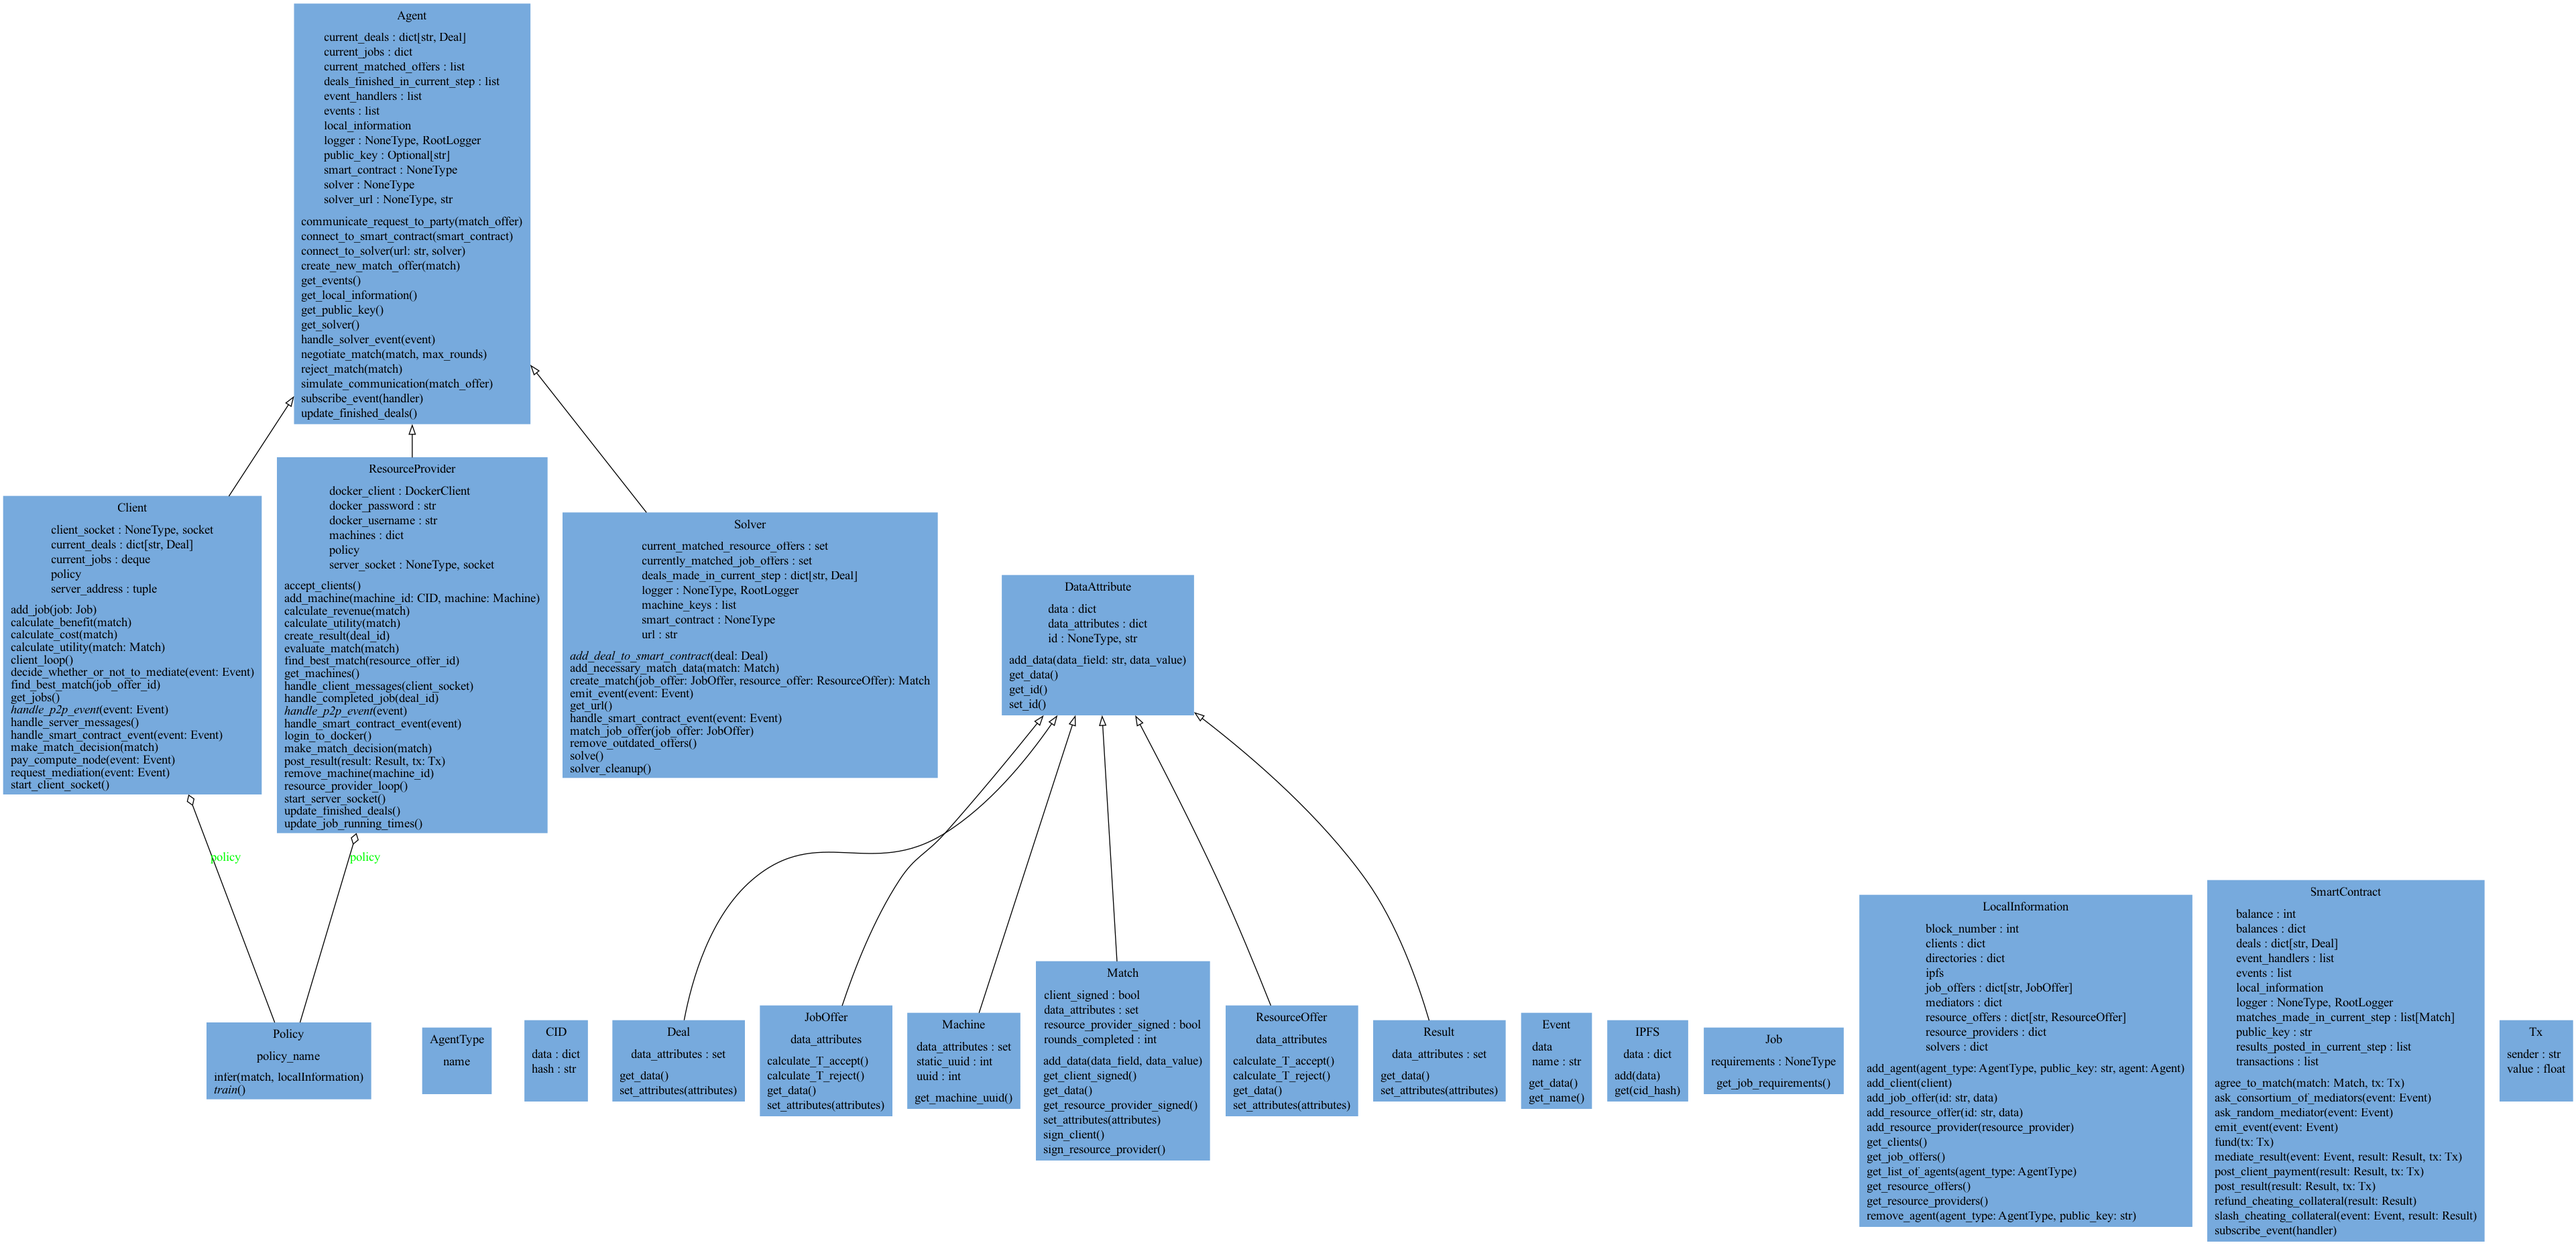
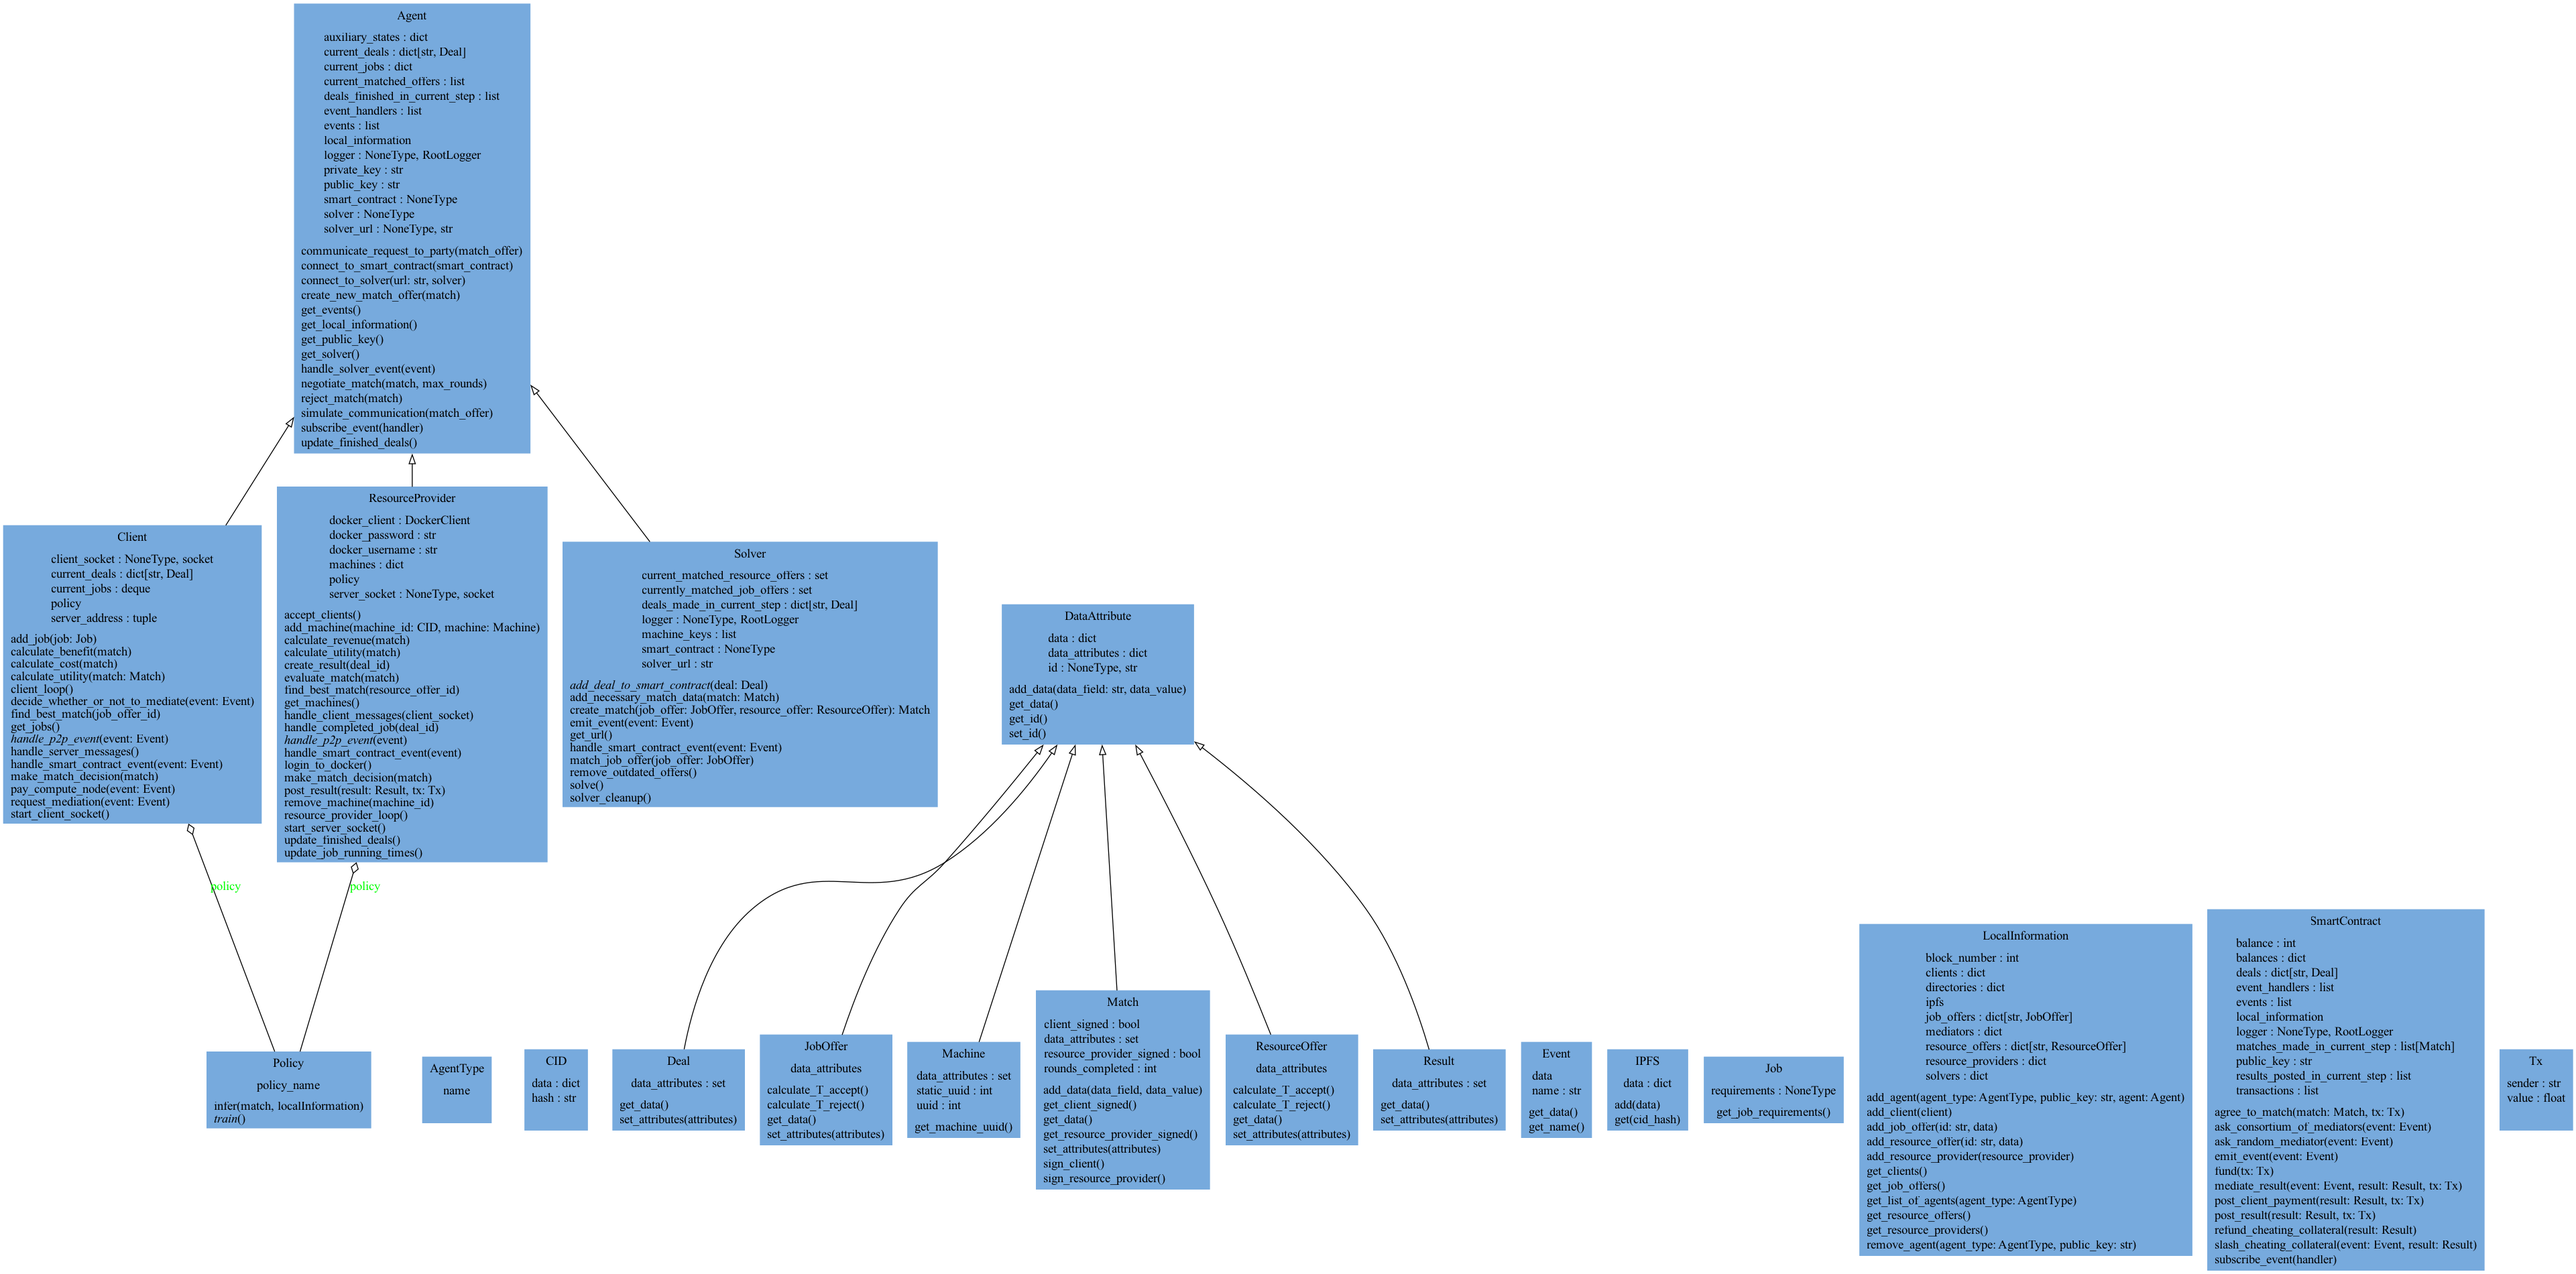
fix: client and solver api as agent

diff --git a/tests/test_client.py b/tests/test_client.py
@@ -13,6 +13,11 @@ from coophive.smart_contract import SmartContract
 from coophive.solver import Solver
 from coophive.utils import Tx
 
[1 lines of base64/hex data omitted]
+mock_public_key = "0x627306090abaB3A6e1400e9345bC60c78a8BEf57"
+policy_a = Policy("naive_accepter")
+solver_url = "http://solver.com"
+
 
 @pytest.fixture
 def setup_client():
@@ -21,8 +26,9 @@ def setup_client():
     with patch("socket.socket") as mock_socket:
         mock_socket_instance = MagicMock()
         mock_socket.return_value = mock_socket_instance
-        policy_a = Policy("naive_accepter")
-        client = Client("client_key", policy_a)
+        client = Client(
+            private_key=mock_private_key, public_key=mock_public_key, policy=policy_a
+        )
         smart_contract = SmartContract(public_key="smart_contract_key")
         client.get_smart_contract = lambda: smart_contract
         match = Match()
@@ -36,8 +42,13 @@ def setup_client():
 def test_get_solver(setup_client):
     """Test the get_solver method."""
     client, _, _ = setup_client
-    solver = Solver(public_key="solver_key", url="http://solver.com")
-    client.connect_to_solver(url="http://solver.com", solver=solver)
+    solver = Solver(
+        private_key=mock_private_key,
+        public_key=mock_public_key,
+        policy=policy_a,
+        solver_url=solver_url,
+    )
+    client.connect_to_solver(url="solver_url", solver=solver)
     assert client.get_solver() == solver
 
 
@@ -50,9 +61,9 @@ def test_get_smart_contract(setup_client):
 def test_connect_to_solver(setup_client):
     """Test the connect_to_solver method."""
     client, _, _ = setup_client
-    solver = Solver(public_key="solver_key", url="http://solver.com")
-    client.connect_to_solver(url="http://solver.com", solver=solver)
-    assert client.solver_url == "http://solver.com"
+    solver = Solver(public_key="solver_key", url="solver_url")
+    client.connect_to_solver(url="solver_url", solver=solver)
+    assert client.solver_url == "solver_url"
     assert client.solver == solver
 
 
@@ -124,7 +135,6 @@ def test_pay_compute_node():
     with patch("socket.socket") as mock_socket:
         mock_socket_instance = MagicMock()
         mock_socket.return_value = mock_socket_instance
-        policy_a = Policy("a")
         client = Client("client_address_123", policy_a)
         client.smart_contract = SmartContract("public_key_123")
         client.smart_contract.balances = {

diff --git a/coophive/solver.py b/coophive/solver.py
@@ -10,6 +10,7 @@ from coophive.event import Event
 from coophive.job_offer import JobOffer
 from coophive.log_json import log_json
 from coophive.match import Match
+from coophive.policy import Policy
 from coophive.resource_offer import ResourceOffer
 from coophive.utils import extra_necessary_match_data
 
@@ -17,14 +18,25 @@ from coophive.utils import extra_necessary_match_data
 class Solver(Agent):
     """Solver class to handle smart contract connections, events, and the matching of job and resource offers."""
 
-    def __init__(self, public_key: str, url: str):
-        """Initialize the Solver with a public key and URL."""
-        super().__init__(public_key)
+    def __init__(
+        self,
+        private_key: str,
+        public_key: str,
+        policy: Policy,
+        solver_url: str,
+        auxiliary_states: dict = {},
+    ):
+        """Initialize the Solver."""
+        super().__init__(
+            private_key=private_key,
+            public_key=public_key,
+            auxiliary_states=auxiliary_states,
+        )
         self.logger = logging.getLogger(f"Solver {self.public_key}")
         logging.basicConfig(
             filename=f"{os.getcwd()}/local_logs", filemode="w", level=logging.DEBUG
         )
-        self.url = url
+        self.solver_url = solver_url
         self.machine_keys = ["CPU", "RAM"]
         self.smart_contract = None
         self.deals_made_in_current_step: dict[str, Deal] = {}
@@ -211,7 +223,7 @@ class Solver(Agent):
 
     def get_url(self):
         """Get the URL of the solver."""
-        return self.url
+        return self.solver_url
 
     def add_deal_to_smart_contract(self, deal: Deal):
         """Add a deal to the smart contract."""

diff --git a/coophive/client.py b/coophive/client.py
@@ -26,14 +26,19 @@ from coophive.utils import Tx
 class Client(Agent):
     """A client in the coophive simulator that interacts with solvers and smart contracts to manage jobs and deals."""
 
-    def __init__(self, address: str, policy: Policy):
-        """Initialize a new Client instance.
-
-        Args:
-            address (str): The address of the client.
-            policy (Policy): The policy of the client.
-        """
-        super().__init__(address)
+    def __init__(
+        self,
+        private_key: str,
+        public_key: str,
+        policy: Policy,
+        auxiliary_states: dict = {},
+    ):
+        """Initialize a new Client instance."""
+        super().__init__(
+            private_key=private_key,
+            public_key=public_key,
+            auxiliary_states=auxiliary_states,
+        )
         self.current_jobs = deque()
         self.policy = policy
         self.current_deals: dict[str, Deal] = {}  # maps deal id to deals
@@ -267,15 +272,3 @@ def create_client(
     client.connect_to_smart_contract(smart_contract=smart_contract)
 
     return client
-
-
-if __name__ == "__main__":
-    address = "Your address here"  # Replace with the actual address
-    policy = Policy("b")
-    client = Client(address, policy)
-    client.client_loop()
-    try:
-        while True:
-            time.sleep(1)
-    except KeyboardInterrupt:
-        logging.info("Client shutting down.")
